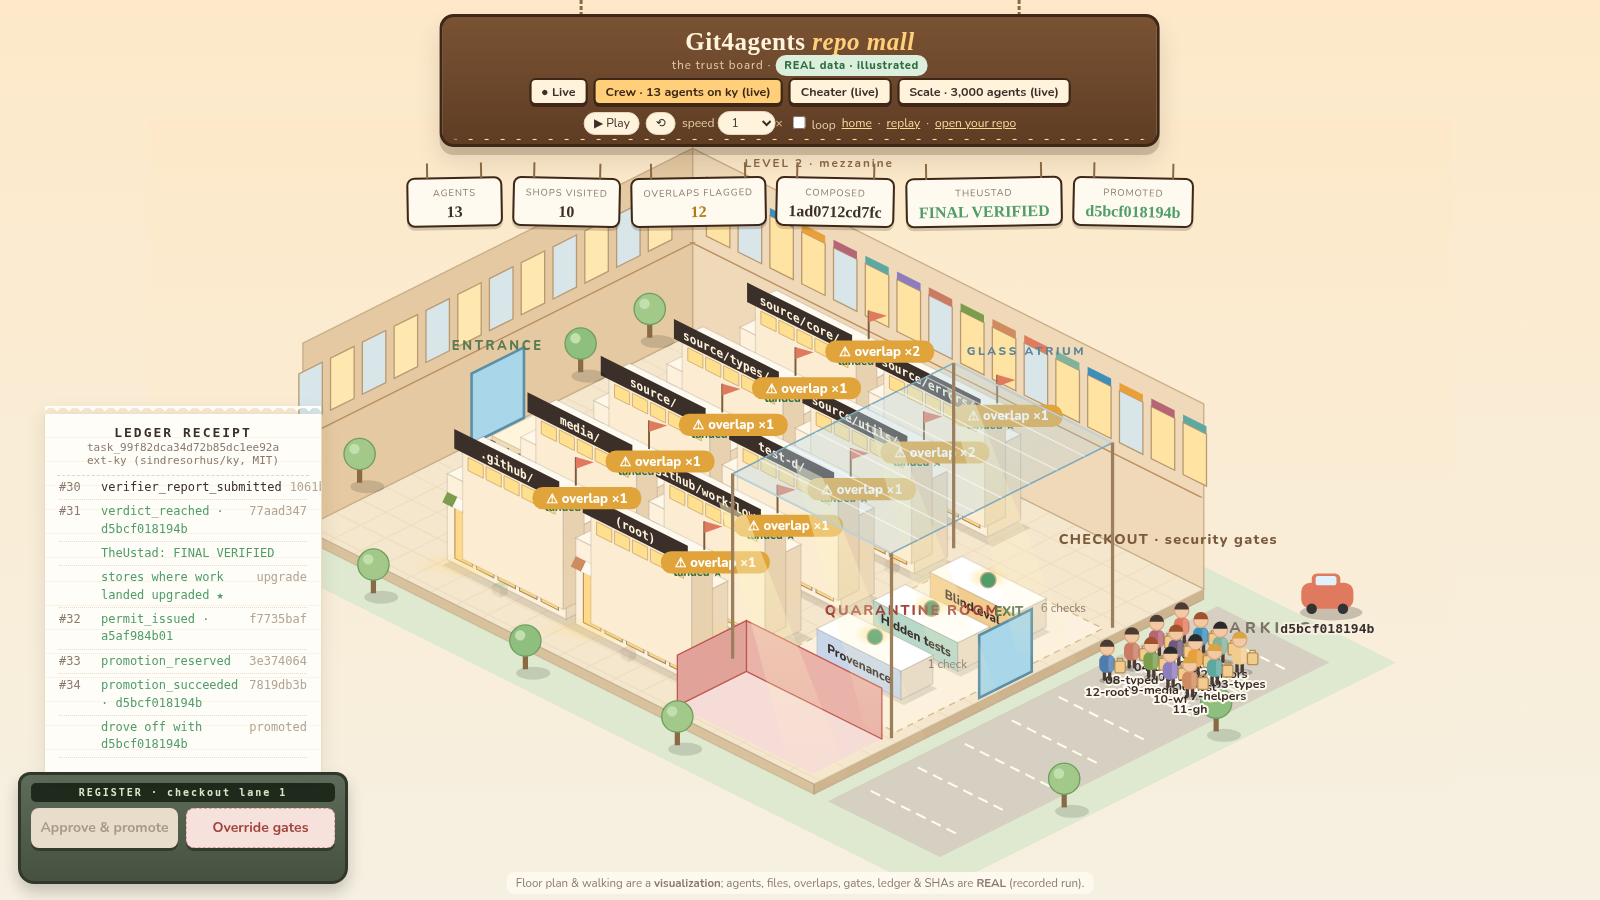
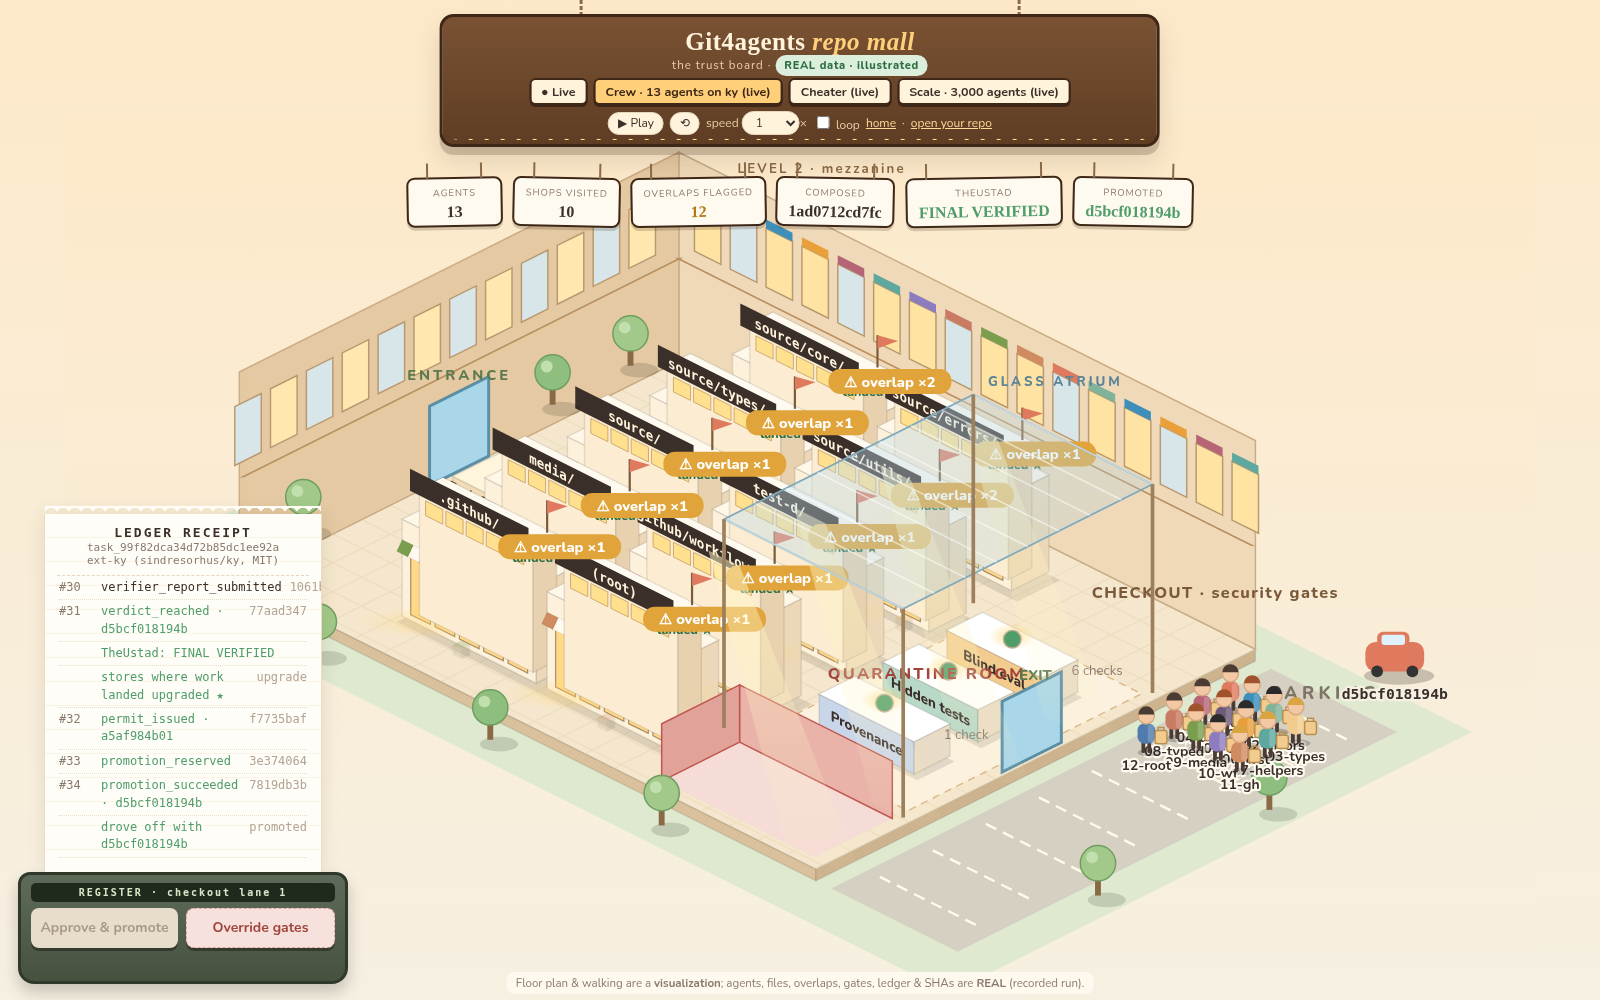
README: retake all screenshots from live site (marquee/register design), landing hero, tidy board table

Changed region(s): [[0.0, 0.0, 0.9375, 0.9956], [0.5312, 0.9022, 0.5625, 0.9333]]

diff --git a/README.md b/README.md
@@ -10,6 +10,8 @@ Every promotion leaves a signed bundle you can verify offline, so "it passed rev
 
 **Live:** https://madgrix.ygathuku96.workers.dev · **◆ Trust board:** https://madgrix.ygathuku96.workers.dev/board · **＋ Bring your repo:** https://madgrix.ygathuku96.workers.dev/board/new · **Demo video:** _link to be added_ (script: [docs/VIDEO_SCRIPT.md](docs/VIDEO_SCRIPT.md))
 
+[![Git4agents landing page: hanging marquee, isometric repo mall preview, how-it-works steps, receipts of the real runs](docs/assets/landing.png)](https://madgrix.ygathuku96.workers.dev/)
+
 [![Trust board mall: live cheater run, cheater-cal stopped by security and taken to the quarantine room, false-done-fay turned back at checkout, honest-ana drives off with the promoted SHA](docs/assets/board-cheater.gif)](https://madgrix.ygathuku96.workers.dev/board?scenario=cheater&autoplay=1)
 
 [/board](https://madgrix.ygathuku96.workers.dev/board): each repo is drawn as an illustrated 2.5D isometric shopping mall: two storeys with a lit mezzanine, a glass atrium over the checkout court, shadows and depth. Agents walk in through the fork & enroll desk, visit stores (the repo's directories, signs named after real module paths), pick up items (the files they claimed; two shoppers at one shelf = overlap flagged), then queue at checkout where the gates run (blind eval, hidden tests, provenance). Stores **upgrade** as work lands (open → busy with lit windows → "landed ★" with an extra floor and flag) and **degrade** on gate failures or quarantine (dimmed, boarded windows, crack, caution tape). Honest shoppers drive off with the promoted SHA; the cheater is taken to the quarantine room with its reason; the false-done shopper is turned back. The ledger receipt prints real ledger events; click a store or shopper for details. Params: `?scenario=crew|cheater|scale&autoplay=1&speed=2&loop=1`.
@@ -18,15 +20,19 @@ Every promotion leaves a signed bundle you can verify offline, so "it passed rev
 
 **Open your own repo in the mall** ([/board/new](https://madgrix.ygathuku96.workers.dev/board/new)): paste a public GitHub URL, an instruction and (optionally) the paths to claim. With the demo access key, the Worker imports the repo into Artifacts (binding `import()`), freezes a real task with your instruction (`handleCreateTask`), registers one claim per agent from your instruction and forks one Artifacts repo per agent (`handleClaim` + `handleCreateContender`, the same first steps as `scripts/run-contenders.mjs`), then redirects to the live mall. It does **not** run agents; commits and gate runs come from the agent runners, and the mall shows only what the authority records. Agent secrets and fork tokens are discarded server-side. Protected by a demo key (Worker secret), a per-IP limit (1 import / 10 min, best effort) and a 20 MB repo cap. Verified end to end: `sindresorhus/is-plain-obj` (MIT) → `task_f0936a321f6c5844dd2bc2af`, 2 claims, 2 forks, 8 ledger entries.
 
-| ![board new](docs/assets/board-new.png) | ![board live mode](docs/assets/board-live.png) |
-|---|---|
 
 
 Three recorded live runs: crew of 13 on ky (12 overlaps, promoted `d5bcf018194b`) · cheater (`cheater-cal` quarantined, ledger #19 `eval_file_modification`; `false-done-fay` failed hidden tests; `honest-ana` `f27946233a53` promoted and VERIFIED; tampered bundle NOT VERIFIED) · 3,000-agent claims (149/149 overlaps flagged). Agents, files, gates, ledger entries and SHAs are REAL (`scripts/build-board-data.py`); the floor plan, walking and the 300-figure crowd are a visualization.
 
-| ![board crew](docs/assets/board-crew.png) | ![board scale](docs/assets/board-scale.png) |
+| Crew of 13 on ky: shoppers at their shelves, overlaps flagged | Crew promoted: everyone in the parking lot, `d5bcf018194b` |
 |---|---|
-| ![board cheater](docs/assets/board-cheater.png) | ![board crew promoted](docs/assets/board-crew-done.png) |
+| ![board crew](docs/assets/board-crew.png) | ![board crew promoted](docs/assets/board-crew-done.png) |
+| **Cheater: cheater-cal in quarantine, test/ boarded up** | **Price-tag card: real agent details** |
+| ![board cheater](docs/assets/board-cheater.png) | ![board price-tag card](docs/assets/board-file-modal.png) |
+| **Scale: 3,000 claims, 149/149 overlaps** | **Live mode: a real task imported via /board/new** |
+| ![board scale](docs/assets/board-scale.png) | ![board live mode](docs/assets/board-live.png) |
+| **/board/new: bring your repo** | |
+| ![board new](docs/assets/board-new.png) | |
 
 ![Live cheater run: cheater-cal quarantined (eval_file_modification), TheUstad FINAL FALSIFIED, tampered bundle NOT VERIFIED](docs/assets/live-cheater-quarantine.gif)
 
@@ -122,13 +128,6 @@ stateDiagram-v2
 ```
 
 <sub>`claimed`, `candidate`, `rejected`, `permitted` and `promoted` are descriptive names for points in the ledger; the stored contender status values are `forked`, `submitted`, `quarantined`, `revoked`, `released`.</sub>
-
-## Screenshots (live Worker)
-
-| Landing | Replay: mid-run |
-|---|---|
-| ![landing](docs/assets/landing.png) | ![board crew](docs/assets/board-crew-done.png) |
-| **Replay: finished (offline verify VERIFIED)** | **Attack tab (simulated): QUARANTINED** |
 
 ## How Git4agents answers the four questions
 
